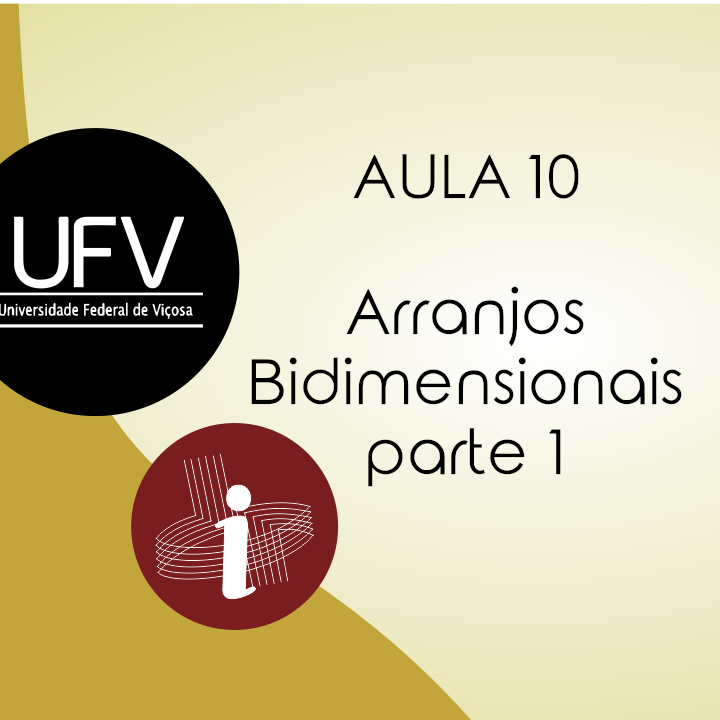
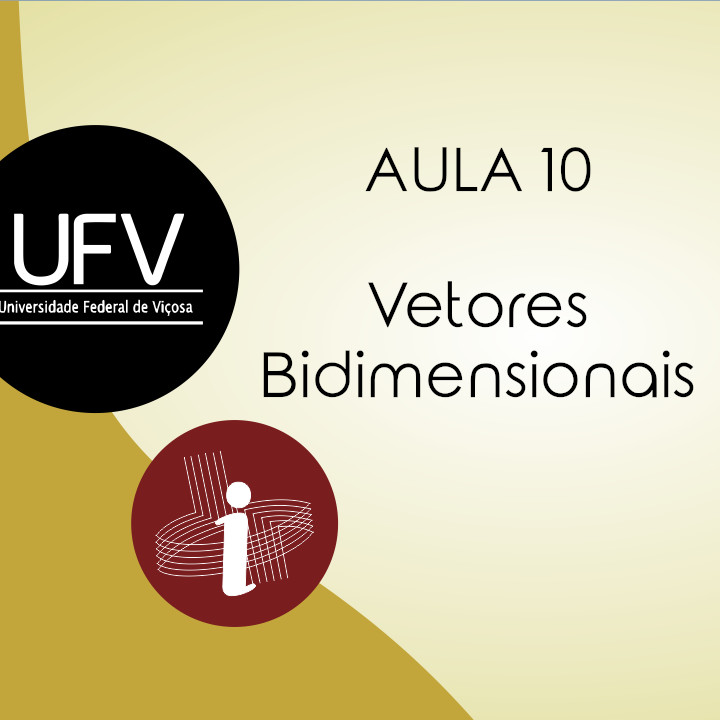
Cap10

diff --git a/cap/assets/js/custom.js b/cap/assets/js/custom.js
@@ -55,13 +55,13 @@ function exibe5(){
 
 // cabeçalho a partir de index
 function nav1(){
-	var cabe = "<nav id='main_nav' class='navbar navbar-expand-lg navbar-light bg-white shadow'> <div class='container d-flex justify-content-between align-items-center'> <a class='navbar-brand h1' href='../index.html'> <span class='text-dark h4'>Computação</span> <span class='text-primary h4'>Livre</span> </a> <button class='navbar-toggler border-0' type='button' data-bs-toggle='collapse' data-bs-target='#navbar-toggler-success' aria-controls='navbarSupportedContent' aria-expanded='false' aria-label='Toggle navigation'> <span class='navbar-toggler-icon'></span> </button> <div class='align-self-center collapse navbar-collapse flex-fill  d-lg-flex justify-content-lg-between' id='navbar-toggler-success'> <div class='flex-fill mx-xl-5 mb-2'> <ul class='nav navbar-nav d-flex justify-content-between mx-xl-5 text-center text-dark'> <li class='nav-item'> <a class='nav-link btn-outline-primary rounded-pill px-3' href='index.html'>Início</a> </li> <li class='nav-item'> <br> </li> <li class='nav-item'> <a class='nav-link btn-outline-primary rounded-pill px-3' href='./intro-py3.html'>Cursos</a> </li> <li class='nav-item'> <a class='nav-link btn-outline-primary rounded-pill px-3' href='./links.html'>Links Úteis</a> </li> <li class='nav-item'> <a class='nav-link btn-outline-primary rounded-pill px-3' href='./oprojeto.html'>O projeto</a> </li> </ul> </div> <div class='navbar align-self-center d-flex'> <br> </div></div></div></nav>"; 
+	var cabe = "<nav id='main_nav' class='navbar navbar-expand-lg navbar-light bg-white shadow'> <div class='container d-flex justify-content-between align-items-center'> <a class='navbar-brand h1' href='../index.html'> <span class='text-dark h4'>Computação</span> <span class='text-primary h4'>Livre</span> </a> <button class='navbar-toggler border-0' type='button' data-bs-toggle='collapse' data-bs-target='#navbar-toggler-success' aria-controls='navbarSupportedContent' aria-expanded='false' aria-label='Toggle navigation'> <span class='navbar-toggler-icon'></span> </button> <div class='align-self-center collapse navbar-collapse flex-fill  d-lg-flex justify-content-lg-between' id='navbar-toggler-success'> <div class='flex-fill mx-xl-5 mb-2'> <ul class='nav navbar-nav d-flex justify-content-between mx-xl-5 text-center text-dark'> <li class='nav-item'> <a class='nav-link btn-outline-primary rounded-pill px-3' href='index.html'>Início</a> </li> <li class='nav-item'> <br> </li> <li class='nav-item'> <a class='nav-link btn-outline-primary rounded-pill px-3' href='./cursos.html'>Cursos</a> </li> <li class='nav-item'> <a class='nav-link btn-outline-primary rounded-pill px-3' href='./links.html'>Links Úteis</a> </li> <li class='nav-item'> <a class='nav-link btn-outline-primary rounded-pill px-3' href='./oprojeto.html'>O projeto</a> </li> </ul> </div> <div class='navbar align-self-center d-flex'> <br> </div></div></div></nav>"; 
       		
 	return cabe; 
 }
 // cabeçalho a partir da pasta cap
 function nav2(){
-	var cabe = "<nav id='main_nav' class='navbar navbar-expand-lg navbar-light bg-white shadow'> <div class='container d-flex justify-content-between align-items-center'> <a class='navbar-brand h1' href='../index.html'> <span class='text-dark h4'>Computação</span> <span class='text-primary h4'>Livre</span> </a> <button class='navbar-toggler border-0' type='button' data-bs-toggle='collapse' data-bs-target='#navbar-toggler-success' aria-controls='navbarSupportedContent' aria-expanded='false' aria-label='Toggle navigation'> <span class='navbar-toggler-icon'></span> </button> <div class='align-self-center collapse navbar-collapse flex-fill  d-lg-flex justify-content-lg-between' id='navbar-toggler-success'> <div class='flex-fill mx-xl-5 mb-2'> <ul class='nav navbar-nav d-flex justify-content-between mx-xl-5 text-center text-dark'> <li class='nav-item'> <a class='nav-link btn-outline-primary rounded-pill px-3' href='./../index.html'>Início</a> </li> <li class='nav-item'> <br> </li> <li class='nav-item'> <a class='nav-link btn-outline-primary rounded-pill px-3' href='./../intro-py3.html'>Cursos</a> </li> <li class='nav-item'> <a class='nav-link btn-outline-primary rounded-pill px-3' href='./../links.html'>Links Úteis</a> </li> <li class='nav-item'> <a class='nav-link btn-outline-primary rounded-pill px-3' href='./../oprojeto.html'>O projeto</a> </li> </ul> </div> <div class='navbar align-self-center d-flex'> <br> </div></div></div></nav>"; 
+	var cabe = "<nav id='main_nav' class='navbar navbar-expand-lg navbar-light bg-white shadow'> <div class='container d-flex justify-content-between align-items-center'> <a class='navbar-brand h1' href='../index.html'> <span class='text-dark h4'>Computação</span> <span class='text-primary h4'>Livre</span> </a> <button class='navbar-toggler border-0' type='button' data-bs-toggle='collapse' data-bs-target='#navbar-toggler-success' aria-controls='navbarSupportedContent' aria-expanded='false' aria-label='Toggle navigation'> <span class='navbar-toggler-icon'></span> </button> <div class='align-self-center collapse navbar-collapse flex-fill  d-lg-flex justify-content-lg-between' id='navbar-toggler-success'> <div class='flex-fill mx-xl-5 mb-2'> <ul class='nav navbar-nav d-flex justify-content-between mx-xl-5 text-center text-dark'> <li class='nav-item'> <a class='nav-link btn-outline-primary rounded-pill px-3' href='./../index.html'>Início</a> </li> <li class='nav-item'> <br> </li> <li class='nav-item'> <a class='nav-link btn-outline-primary rounded-pill px-3' href='./../cursos.html'>Cursos</a> </li> <li class='nav-item'> <a class='nav-link btn-outline-primary rounded-pill px-3' href='./../links.html'>Links Úteis</a> </li> <li class='nav-item'> <a class='nav-link btn-outline-primary rounded-pill px-3' href='./../oprojeto.html'>O projeto</a> </li> </ul> </div> <div class='navbar align-self-center d-flex'> <br> </div></div></div></nav>"; 
       		
 	return cabe; 
 }

diff --git a/cap/cap10.html b/cap/cap10.html
@@ -27,7 +27,7 @@
     <!-- Start slider -->
     <div>
       <h1 id="capitulo"><br>
-        Capítulo 10: Arranjos Bidimensionais Parte 1</h1>
+        Capítulo 10: Arranjos Bidimensionais</h1>
     </div>
     <script> exibe1(); </script>
     <!-- Start Service -->
@@ -38,41 +38,45 @@
             <li class="nav-item mx-lg-4"> <a class="filter-btn nav-link btn-outline-primary rounded-pill text-light px-4 light-300"
                 onclick="ant(10);"> Capítulo Anterior </a> </li>
             <li class="nav-item mx-lg-4"> <a class="filter-btn nav-link btn-outline-primary active shadow rounded-pill text-light px-4 light-300"
-                onclick="exibe1();">Aula a</a> </li>
+                onclick="exibe1();">Aula A</a> </li>
             <li class="nav-item mx-lg-4"> <a class="filter-btn nav-link btn-outline-primary rounded-pill text-light px-4 light-300"
-                onclick="exibe2();">Aula b</a> </li>
+                onclick="exibe2();">Aula B</a> </li>
             <li class="nav-item mx-lg-4"> <a class="filter-btn nav-link btn-outline-primary rounded-pill text-light px-4 light-300"
                 onclick="exibe3();">Material e Exercícios</a> </li>
             <li class="nav-item mx-lg-4"> <a class="filter-btn nav-link btn-outline-primary rounded-pill text-light px-4 light-300"
                 onclick="exibe4();">Resolução </a> </li>
             <li class="nav-item mx-lg-4"> <a class="filter-btn nav-link btn-outline-primary rounded-pill text-light px-4 light-300"
-                onclick="prox(10);"> Próximo Capítulo </a> </li>
+                onclick="emBreve();"> Próximo Capítulo </a> </li>
           </ul>
         </div>
       </div>
     </section>
-    <div id="item1" align="center"> <iframe src="https://www.youtube.com/embed/xk4xhFYAff0"
+
+    <div id="item1" align="center"> <iframe src="https://www.youtube.com/embed/9241HTF48cE"
         title="YouTube video player" allow="accelerometer; autoplay; clipboard-write; encrypted-media; gyroscope; picture-in-picture"
         allowfullscreen="" width="960" height="640" frameborder="0"></iframe> </div>
-    <div id="item2">
-      <h1 style="color: blue; margin: 1%;"> Material </h1>
-      <p style="color: blue; margin: 1%;"><a href="https://colab.research.google.com/drive/1DBKs8O7X_0pXO0d7iChgwrmyEoapHBtK?usp=sharing"
-          target="_blank">  Link Material da Aula A </a></p>
-      <p style="color: blue; margin: 1%;"><a href="https://colab.research.google.com/drive/1DBKs8O7X_0pXO0d7iChgwrmyEoapHBtK?usp=sharing"
-          target="_blank">  Link Material da Aula B </a></p>
-      <h1 style="color: blue; margin: 1%;"> Lista de exercícios </h1>
-      <p style="color: blue; margin: 1%;"><a href="https://colab.research.google.com/drive/1H9fAmwCQFmnwxLl3rXuvyiN0KAmqG34y?usp=sharing"
-          target="_blank">  Link Lista de Exercícios </a></p>
+    
+    <div id="item2" align="center"><iframe width="960" height="640" src="https://www.youtube.com/embed/videoseries?list=PL7aexmFk7_KlDuJE1XLQhP2GSvAiPXZeG" 
+      title="YouTube video player" frameborder="0" allow="accelerometer; autoplay; clipboard-write; encrypted-media; gyroscope; picture-in-picture" 
+      allowfullscreen></iframe> </div>
+    
 
+    <div id="item3">
+      <h1 style="color: blue; margin: 1%;"> Material </h1>
+      <p style="color: blue; margin: 1%;"><a href="https://colab.research.google.com/drive/1flnOLd9kGbj_Au64pW8YvqrSnjIo2Ry6?usp=sharing"
+          target="_blank">  Link Material da Aula A </a></p>
+      <p style="color: blue; margin: 1%;"><a href="https://colab.research.google.com/drive/1tQfeTSvVsRYBtrNHh5IGqmxf0iuXAaCw?usp=sharing"
+          target="_blank">  Link Material da Aula B (Exercícios resolvidos) </a></p>
+      <h1 style="color: blue; margin: 1%;"> Lista de exercícios </h1>
+      <p style="color: blue; margin: 1%;"><a href="https://colab.research.google.com/drive/1C-zcYw1y-NyEo5tHu2HIWHnJKNRe-YUj?usp=sharing"
+          target="_blank">  Link Lista de Exercícios </a></p>
+          
     </div>
-    <div id="item3" align="center"> <iframe src="https://www.youtube.com/embed/videoseries?list=PL7aexmFk7_KmAl1AvWtxfLwO-xep0D2IV"
-        title="YouTube video player" allow="accelerometer; autoplay; clipboard-write; encrypted-media; gyroscope; 
-                                                                  picture-in-picture"
-        allowfullscreen="" width="960" height="640" frameborder="0"></iframe></div>
-    <div id="item4" align="center"> <iframe src="https://www.youtube.com/embed/videoseries?list=PL7aexmFk7_Kl5G7nK9u_z3qw3FqHZ6tXy"
-        title="YouTube video player" allow="accelerometer; autoplay; clipboard-write;
-     												 encrypted-media; gyroscope; picture-in-picture" allowfullscreen=""
-        width="960" height="640" frameborder="0"></iframe></div>
+
+    <div id="item4" align="center"> <iframe width="960" height="640" src="https://www.youtube.com/embed/videoseries?list=PL7aexmFk7_KnNfqoO2tkhRhXw3O82eEzs" 
+      title="YouTube video player" frameborder="0" allow="accelerometer; autoplay; clipboard-write; encrypted-media; gyroscope; picture-in-picture" 
+      allowfullscreen></iframe></div>
+    
     <div id="item5"> </div>
     <script> exibe1(); </script>
     <!-- Footer -->

diff --git a/cursos.html b/cursos.html
@@ -1,0 +1,105 @@
+<!DOCTYPE html>
+<html lang="en">
+  <head>
+    <meta http-equiv="content-type" content="text/html; charset=utf-8">
+    <title>Cursos</title>
+    <meta name="viewport" content="width=device-width, initial-scale=1">
+    <link rel="apple-touch-icon" href="assets/img/apple-icon.png">
+    <link rel="shortcut icon" type="image/x-icon" href="assets/img/favicon.ico">
+    <!-- Load Require CSS -->
+    <link href="assets/css/bootstrap.min.css" rel="stylesheet">
+    <!-- Font CSS -->
+    <link href="assets/css/boxicon.min.css" rel="stylesheet">
+    <link href="https://fonts.googleapis.com/css2?family=Open+Sans:wght@300;400;600&amp;display=swap"
+      rel="stylesheet">
+    <!-- Load Tempalte CSS -->
+    <link rel="stylesheet" href="assets/css/templatemo.css">
+    <!-- Custom CSS -->
+    <link rel="stylesheet" href="assets/css/custom.css">
+    <!-- Custom -->
+    <script src="assets/js/custom.js"></script>
+    <!--
+    TemplateMo 561 Purple Buzzhttps://templatemo.com/tm-561-purple-buzz-->
+  </head>
+  <body>
+    <!-- Header -->
+    <script>  x = nav1(); document.write(x.toString()); 
+    					function emBreve()
+{
+alert("EM BREVE!");
+}
+    </script>
+    <!-- Close Header -->
+    <!-- Start Banner Hero -->
+    <div id="work_banner" class="banner-wrapper bg-light w-100 py-5">
+      <div class="banner-vertical-center-work container text-light d-flex justify-content-center align-items-center py-5 p-0">
+        <div class="banner-content col-lg-8 col-12 m-lg-auto text-center">
+          <h1 class="banner-heading h2 display-3 pb-5 semi-bold-600 typo-space-line-center">Cursos</h1>
+        </div>
+      </div>
+    </div>
+    <!-- End Banner Hero -->
+    <!-- Start Our Work -->
+    <section class="container py-5">
+      <div class="row projects gx-lg-5">    
+
+          <a href="./intro-py3.html" class="col-sm-6 col-lg-3 text-decoration-none project marketing social business">
+            <div class="service-work overflow-hidden card mb-5 mx-5 m-sm-0"> <img
+                class="card-img-top" src="./assets/img/cursos.jpg" alt="Introdução">
+            </div>
+          </a> 
+          <!-- 
+          <a href="./cap/cap0.html" class="col-sm-6 col-lg-3 text-decoration-none project marketing social business">
+            <div class="service-work overflow-hidden card mb-5 mx-5 m-sm-0"> <img
+                class="card-img-top" src="./assets/img/cap/cap0.jpg" alt="Capítulo 0">
+            </div>
+          </a>
+        -->
+        
+        <div class="row">
+          <div class="btn-toolbar justify-content-center pb-4" role="toolbar" aria-label="Toolbar with button groups">
+          </div>
+        </div>
+
+      </div>
+    </section>
+    <!-- End Our Work -->
+    <!-- Footer -->
+    <script>  x = foot2(); document.write(x.toString()); </script>
+    <!-- End Footer -->
+    <!-- Bootstrap -->
+    <script src="assets/js/bootstrap.bundle.min.js"></script>
+    <!-- Lightbox -->
+    <script src="assets/js/fslightbox.js"></script>
+    <script>
+        fsLightboxInstances['gallery'].props.loadOnlyCurrentSource = true;
+    </script>
+    <!-- Load jQuery require for isotope -->
+    <script src="assets/js/jquery.min.js"></script>
+    <!-- Isotope -->
+    <script src="assets/js/isotope.pkgd.js"></script>
+    <!-- Page Script -->
+    <script>
+        $(window).load(function() {
+            // init Isotope
+            var $projects = $('.projects').isotope({
+                itemSelector: '.project',
+                layoutMode: 'fitRows'
+            });
+            $(".filter-btn").click(function() {
+                var data_filter = $(this).attr("data-filter");
+                $projects.isotope({
+                    filter: data_filter
+                });
+                $(".filter-btn").removeClass("active");
+                $(".filter-btn").removeClass("shadow");
+                $(this).addClass("active");
+                $(this).addClass("shadow");
+                return false;
+            });
+        });
+    </script>
+    <!-- Templatemo -->
+    <script src="assets/js/templatemo.js"></script>
+  </body>
+</html>

diff --git a/assets/js/custom.js b/assets/js/custom.js
@@ -1,6 +1,6 @@
 // Cabeçalho a partir de index
 function nav1(){
-	var cabe = "<nav id='main_nav' class='navbar navbar-expand-lg navbar-light bg-white shadow'> <div class='container d-flex justify-content-between align-items-center'> <a class='navbar-brand h1' href='index.html'> <span class='text-dark h4'>Computação</span> <span class='text-primary h4'>Livre</span> </a> <button class='navbar-toggler border-0' type='button' data-bs-toggle='collapse' data-bs-target='#navbar-toggler-success' aria-controls='navbarSupportedContent' aria-expanded='false' aria-label='Toggle navigation'> <span class='navbar-toggler-icon'></span> </button> <div class='align-self-center collapse navbar-collapse flex-fill  d-lg-flex justify-content-lg-between' id='navbar-toggler-success'> <div class='flex-fill mx-xl-5 mb-2'> <ul class='nav navbar-nav d-flex justify-content-between mx-xl-5 text-center text-dark'> <li class='nav-item'> <a class='nav-link btn-outline-primary rounded-pill px-3' href='index.html'>Início</a> </li> <li class='nav-item'> <br> </li> <li class='nav-item'> <a class='nav-link btn-outline-primary rounded-pill px-3' href='./intro-py3.html'>Cursos</a> </li> <li class='nav-item'> <a class='nav-link btn-outline-primary rounded-pill px-3' href='./links.html'>Links Úteis</a> </li> <li class='nav-item'> <a class='nav-link btn-outline-primary rounded-pill px-3' href='./oprojeto.html'>O projeto</a> </li> </ul> </div> <div class='navbar align-self-center d-flex'> <br> </div></div></div></nav>"; 
+	var cabe = "<nav id='main_nav' class='navbar navbar-expand-lg navbar-light bg-white shadow'> <div class='container d-flex justify-content-between align-items-center'> <a class='navbar-brand h1' href='index.html'> <span class='text-dark h4'>Computação</span> <span class='text-primary h4'>Livre</span> </a> <button class='navbar-toggler border-0' type='button' data-bs-toggle='collapse' data-bs-target='#navbar-toggler-success' aria-controls='navbarSupportedContent' aria-expanded='false' aria-label='Toggle navigation'> <span class='navbar-toggler-icon'></span> </button> <div class='align-self-center collapse navbar-collapse flex-fill  d-lg-flex justify-content-lg-between' id='navbar-toggler-success'> <div class='flex-fill mx-xl-5 mb-2'> <ul class='nav navbar-nav d-flex justify-content-between mx-xl-5 text-center text-dark'> <li class='nav-item'> <a class='nav-link btn-outline-primary rounded-pill px-3' href='index.html'>Início</a> </li> <li class='nav-item'> <br> </li> <li class='nav-item'> <a class='nav-link btn-outline-primary rounded-pill px-3' href='./cursos.html'>Cursos</a> </li> <li class='nav-item'> <a class='nav-link btn-outline-primary rounded-pill px-3' href='./links.html'>Links Úteis</a> </li> <li class='nav-item'> <a class='nav-link btn-outline-primary rounded-pill px-3' href='./oprojeto.html'>O projeto</a> </li> </ul> </div> <div class='navbar align-self-center d-flex'> <br> </div></div></div></nav>"; 
       		
 	return cabe; 
 }

diff --git a/cap/intro.html b/cap/intro.html
@@ -122,29 +122,17 @@
             <td> <a href="cap9.html"> Ir </a> </td>
           </tr>
           <tr>
-            <td> 10 (EM BREVE) </td>
+            <td> 10 </td>
             <td style="text-align: left; vertical-align: middle;"> Arranjos
-              (Vetores/Arrays) bidimensionais Parte1 </td>
-            <td> <a> EM BREVE </a> </td>
+              (Vetores/Arrays) bidimensionais </td>
+            <td> <a href="cap10.html"> Ir </a> </td>
           </tr>
           <tr>
             <td> 11 (EM BREVE) </td>
-            <td style="text-align: left; vertical-align: middle;"> Arranjos
-              (Vetores/Arrays) bidimensionais Parte2 </td>
+            <td style="text-align: left; vertical-align: middle;"> Funções </td>
             <td> <a> EM BREVE </a> </td>
           </tr>
-          <tr>
-            <td> 12 (EM BREVE) </td>
-            <td style="text-align: left; vertical-align: middle;"> Funções
-              Parte1 </td>
-            <td> <a> EM BREVE </a> </td>
-          </tr>
-          <tr>
-            <td> 13 (EM BREVE) </td>
-            <td style="text-align: left; vertical-align: middle;"> Funções
-              Parte2 </td>
-            <td> <a> EM BREVE </a> </td>
-          </tr>
+      
           
         </tbody>
       </table>

diff --git a/intro-py3.html b/intro-py3.html
@@ -88,7 +88,7 @@ alert("EM BREVE!");
             <div class="service-work overflow-hidden card mx-5 mx-sm-0 mb-5"> <img
                 class="card-img-top" src="./assets/img/cap/cap9.jpg" alt="Capítulo 9">
             </div>
-          </a> <a onclick="emBreve()" href="" class="col-sm-6 col-lg-3 text-decoration-none project marketing graphic">
+          </a> <a href="./cap/cap10.html"  class="col-sm-6 col-lg-3 text-decoration-none project marketing graphic">
             <div class="service-work overflow-hidden card mx-5 mx-sm-0 mb-5"> <img
                 class="card-img-top" src="./assets/img/cap/cap10.jpg" alt="Capítulo 10">
             </div>

diff --git a/cap/cap9.html b/cap/cap9.html
@@ -46,7 +46,7 @@
             <li class="nav-item mx-lg-4"> <a class="filter-btn nav-link btn-outline-primary rounded-pill text-light px-4 light-300"
                 onclick="exibe4();">Resolução </a> </li>
             <li class="nav-item mx-lg-4"> <a class="filter-btn nav-link btn-outline-primary rounded-pill text-light px-4 light-300"
-                onclick="emBreve();"> Próximo Capítulo </a> </li>
+                onclick="prox(9);"> Próximo Capítulo </a> </li>
           </ul>
         </div>
       </div>
